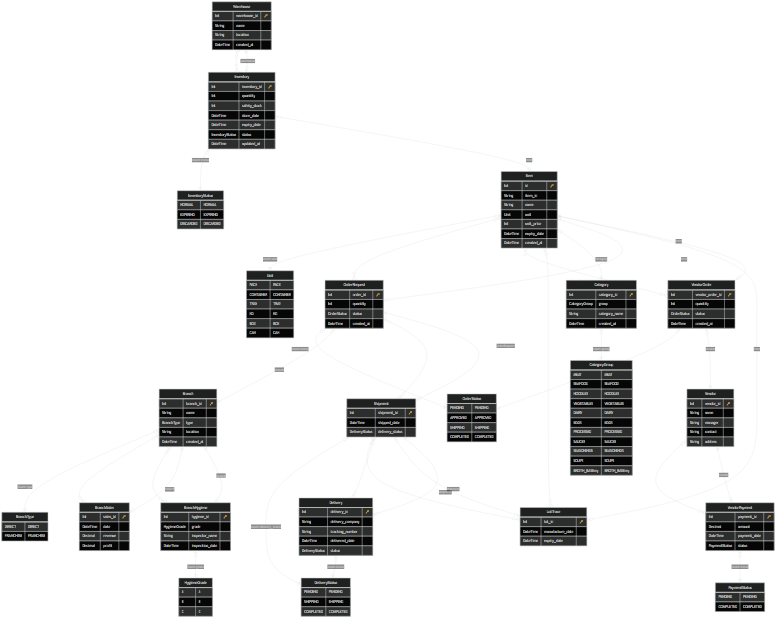
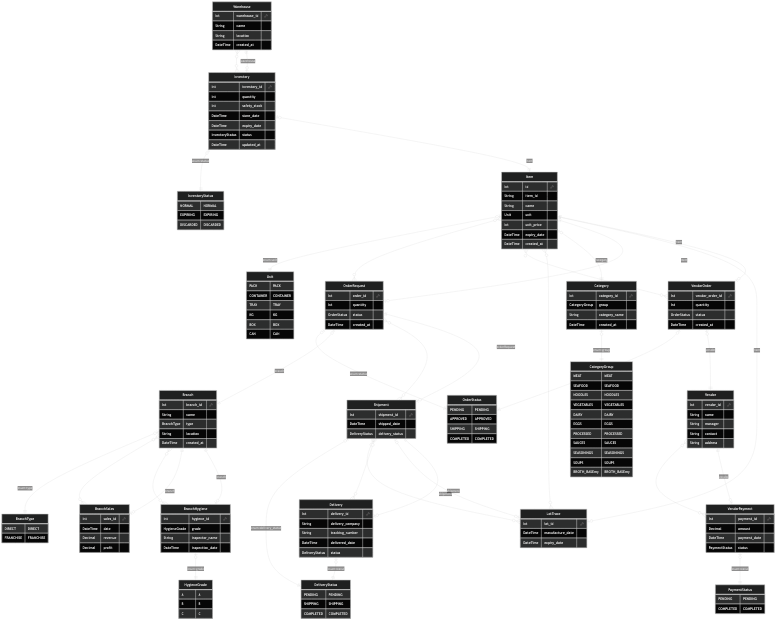
implement Category API

diff --git a/src/category/category.repository.ts b/src/category/category.repository.ts
@@ -1,0 +1,34 @@
+import { Injectable } from "@nestjs/common";
+import { PrismaService } from "../database/prisma.service";
+import { CategoryEntity } from "./entities/category.entity";
+import { CreateCategoryDto } from "./dto/create-category.dto";
+import { UpdateCategoryDto } from "./dto/update-category.dto";
+
+@Injectable()
+export class CategoryRepository {
+    //prisma Service 의존성 주입
+    constructor(private readonly prisma: PrismaService) {}
+
+    //카테고리 생성
+    async create(data: CreateCategoryDto ): Promise<CategoryEntity> {
+        const category = await this.prisma.category.create({ data });
+        return new CategoryEntity(category.category_id, category.group , category.category_name);
+    }
+
+    //카테고리 조회
+    async findAll(): Promise<CategoryEntity[]> {
+        const category = await this.prisma.category.findMany();
+        return category.map(c => new CategoryEntity(c.category_id, c.group , c.category_name));
+    }
+
+    //카레고리 수정
+    async update(id: number, data: UpdateCategoryDto): Promise<CategoryEntity> {
+        const category = await this.prisma.category.update({ where: { category_id: id }, data});
+        return new CategoryEntity(category.category_id, category.group , category.category_name);
+    }
+
+    async remove(id: number): Promise<void> {
+        await this.prisma.category.delete({ where: { category_id: id } });
+    }
+
+}

diff --git a/src/category/category.service.ts b/src/category/category.service.ts
@@ -1,0 +1,26 @@
+import { Injectable, NotFoundException } from "@nestjs/common";
+import { CategoryRepository  } from "./category.repository";
+import { CreateCategoryDto } from "./dto/create-category.dto";
+import { CategoryEntity } from "./entities/category.entity";
+import { UpdateCategoryDto } from "./dto/update-category.dto";
+
+@Injectable()
+export class CategoryService {
+    constructor(private readonly CategoryRepository: CategoryRepository) {}
+
+    async create(dto: CreateCategoryDto): Promise<CategoryEntity> {
+        return this.CategoryRepository.create(dto);
+    }
+
+    async findAll(): Promise<CategoryEntity[]> {
+        return this.CategoryRepository.findAll();
+    }
+
+    async update(id: number, dto: UpdateCategoryDto): Promise<CategoryEntity> {
+        return this.CategoryRepository.update(id, dto);
+    }
+
+    async remove(id: number): Promise<void>{
+        return this.CategoryRepository.remove(id);
+    }
+}

diff --git a/src/category/category.controller.ts b/src/category/category.controller.ts
@@ -1,0 +1,30 @@
+import { Controller, Get, Post, Put, Delete, Param, Body } from "@nestjs/common";
+import { CategoryService } from "./category.service";
+import { CreateCategoryDto } from "./dto/create-category.dto";  
+import { UpdateCategoryDto } from "./dto/update-category.dto";
+
+@Controller('category')
+export class CategoryController {
+    constructor(private readonly categoryService: CategoryService) {} 
+    
+    @Post()
+    async create(@Body() dto: CreateCategoryDto) {  
+        return this.categoryService.create(dto);
+    }
+
+    @Get()
+    async findAll(){
+        return this.categoryService.findAll();
+    }
+
+    @Put(':id')
+    async update(@Param('id') id: string, @Body() dto:UpdateCategoryDto){
+        return this.categoryService.update(+id, dto);
+    }
+
+    @Delete(':id')
+    async remove(@Param('id') id: string) {
+        return this.categoryService.remove(+id);
+    }
+
+}

diff --git a/src/app.module.ts b/src/app.module.ts
@@ -3,9 +3,10 @@ import { AppController } from './app.controller';
 import { AppService } from './app.service';
 import { PrismaModule } from "./database/prisma.module";
 import { VendorModule } from './vendor/vendor.module';
+import { CategoryModule } from './category/category.modules';
 
 @Module({
-  imports: [ PrismaModule, VendorModule ],
+  imports: [ PrismaModule, VendorModule, CategoryModule ],
   controllers: [AppController],
   providers: [AppService],
 })

diff --git a/src/category/dto/create-category.dto.ts b/src/category/dto/create-category.dto.ts
@@ -1,14 +1,14 @@
 import { IsNotEmpty, IsString, IsEnum, IsEmail, IsEmpty } from "class-validator";
-import { Unit } from "@prisma/client";
+import { CategoryGroup } from "@prisma/client";
 import { Injectable } from "@nestjs/common";
 
 
 export class CreateCategoryDto {
     @IsString()
-    @IsEmpty()
-    group: Unit;
+    @IsNotEmpty()
+    group: CategoryGroup;
 
     @IsString()
-    @IsEmpty()
+    @IsNotEmpty()
     category_name: string; 
 }

diff --git a/src/category/category.modules.ts b/src/category/category.modules.ts
@@ -1,0 +1,11 @@
+import { Module } from "@nestjs/common";
+import { CategoryService } from "./category.service";
+import { CategoryController } from "./category.controller";
+import { CategoryRepository } from "./category.repository";
+import { PrismaService } from "src/database/prisma.service";
+
+@Module({
+    controllers: [CategoryController],
+    providers: [CategoryService, CategoryRepository, PrismaService]
+})
+export class CategoryModule {}

diff --git a/src/category/entities/category.entity.ts b/src/category/entities/category.entity.ts
@@ -1,9 +1,9 @@
-import { Unit } from "@prisma/client";
+import { CategoryGroup } from "@prisma/client";
 
 export class CategoryEntity {
     constructor ( 
         public readonly category_id: number,
-        public readonly group: Unit,
+        public readonly group: CategoryGroup,
         public readonly category_name: string,
     ) {}
 }
